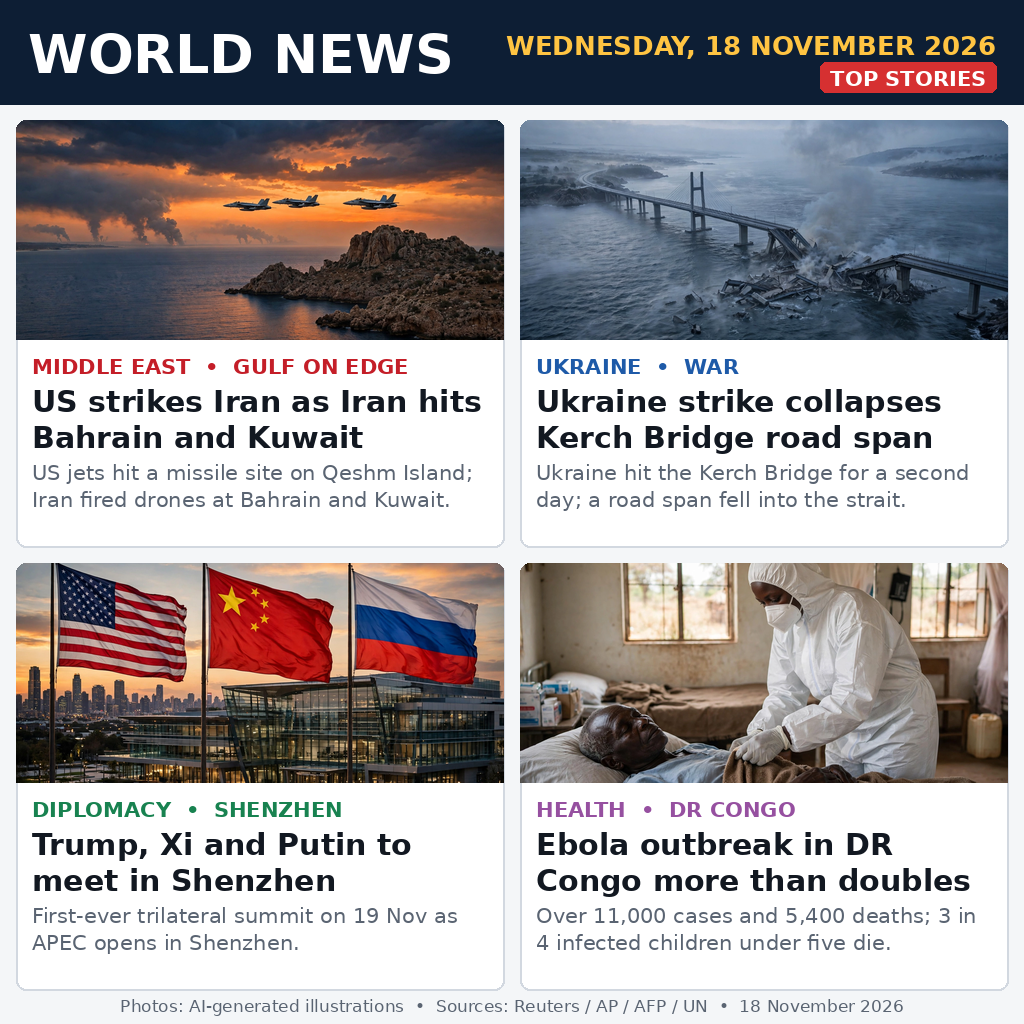
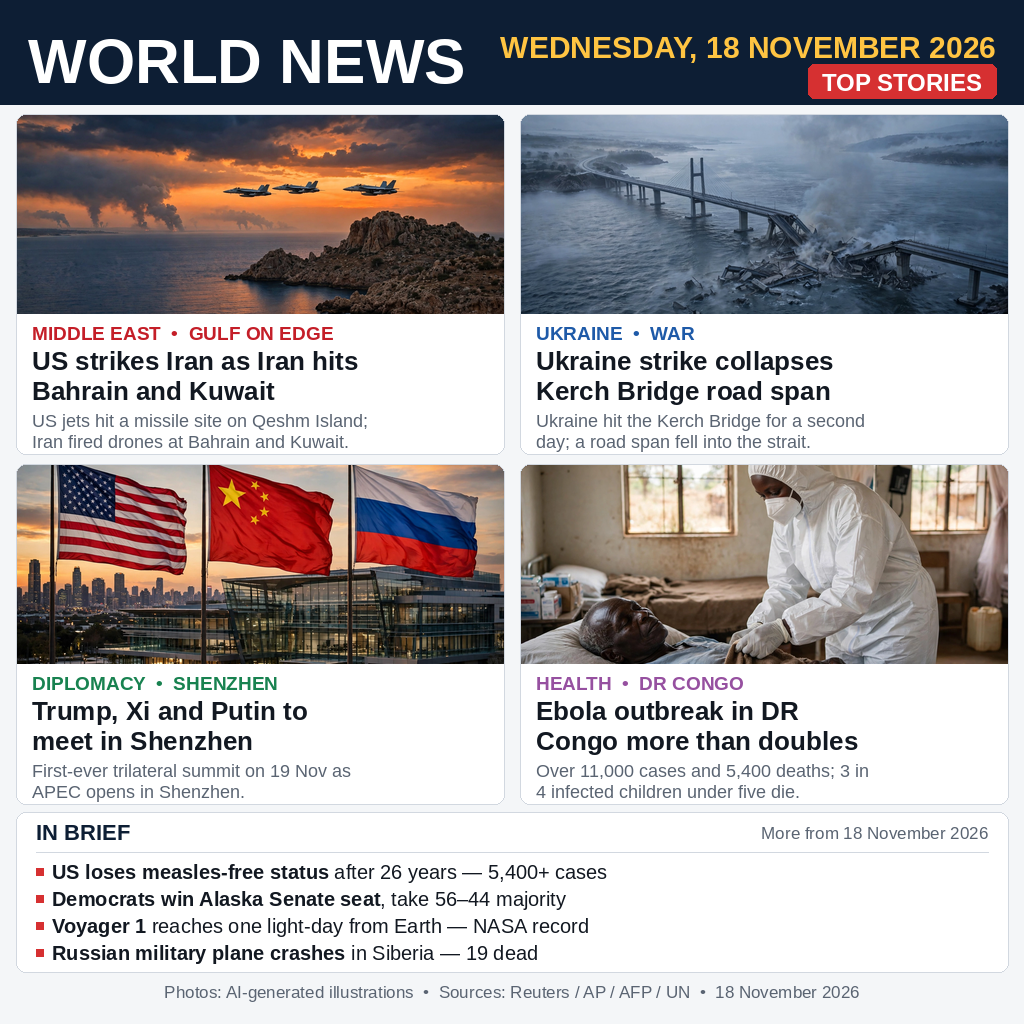
news-image-20261118 v2: add IN BRIEF strip (measles, Alaska Senate, Voyager 1, Siberia crash)

diff --git a/README.md b/README.md
@@ -13,7 +13,8 @@ for the make.fun competition
 
 `entry.png` (1024×1024, PNG) is a newspaper front page with the day's
 four biggest stories, each with an illustration, a headline and a
-one-line summary:
+one-line summary, plus an "IN BRIEF" strip with four more headlines
+from the same day:
 
 1. **Middle East — Gulf on edge.** US jets struck a Revolutionary Guard
    missile site on Qeshm Island, Iran; Iran answered with drones at US
@@ -26,6 +27,11 @@ one-line summary:
 4. **Health — DR Congo.** The Ebola outbreak more than doubled: over
    11,000 cases and 5,400 deaths, the UN says; three in four infected
    children under five do not survive.
+
+**In brief:** the US loses its measles-free status after 26 years
+(5,400+ cases); Democrats win the Alaska Senate seat and take a 56–44
+majority; Voyager 1 reaches one light-day from Earth, a NASA record;
+a Russian military plane crashes in Siberia, 19 dead.
 
 The four illustrations are AI-generated; the facts were checked against
 Reuters / AP / AFP / UN reporting of 18 November 2026.
